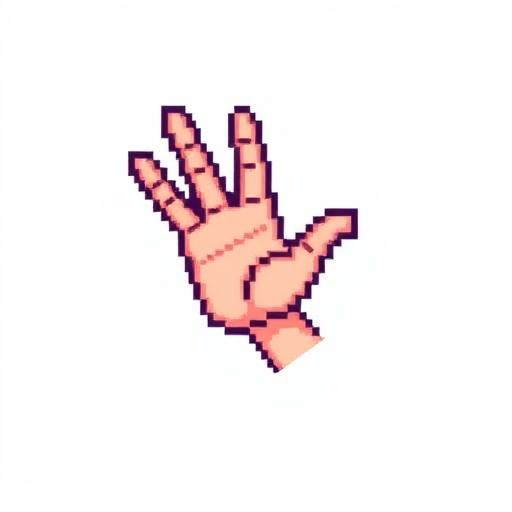
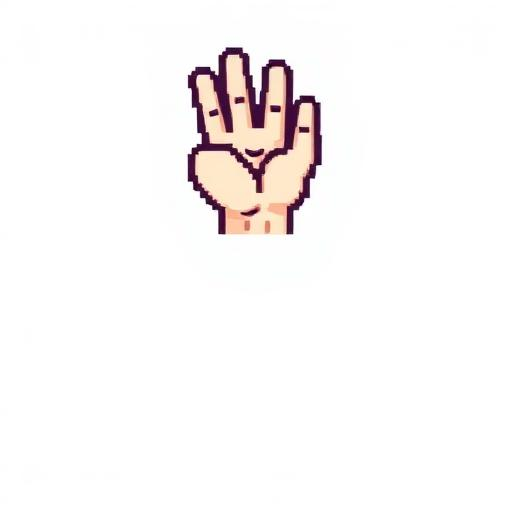
Changes

Changed region(s): [[0.25, 0.0938, 0.7188, 0.75]]

diff --git a/src/components/EventCard.tsx b/src/components/EventCard.tsx
@@ -115,11 +115,11 @@ export const EventCard = ({ event, index }: EventCardProps) => {
         >
           {/* Hand grabbing animation */}
           {isGrabbing && (
-            <div className="absolute inset-0 flex items-center justify-center z-20 pointer-events-none">
+            <div className="absolute inset-0 flex items-start justify-center z-20 pointer-events-none pt-4">
               <img 
                 src={pixelHand} 
                 alt="Grabbing hand" 
-                className="w-20 h-20 animate-hand-grab object-contain"
+                className="w-28 h-28 animate-hand-grab object-contain"
                 style={{ imageRendering: 'pixelated' }}
               />
             </div>
@@ -164,34 +164,34 @@ export const EventCard = ({ event, index }: EventCardProps) => {
       <style>{`
         @keyframes ticket-grab {
           0% {
-            transform: translateX(0) rotate(0deg);
+            transform: translateY(0);
             opacity: 1;
           }
-          50% {
-            transform: translateX(20px) rotate(-5deg);
+          40% {
+            transform: translateY(0);
             opacity: 1;
           }
           100% {
-            transform: translateX(150%) rotate(-15deg);
+            transform: translateY(100px);
             opacity: 0;
           }
         }
         
         @keyframes hand-grab {
           0% {
-            transform: translateX(-100px) rotate(0deg) scale(0.8);
+            transform: translateY(-80px) scale(0.8);
             opacity: 0;
           }
           30% {
-            transform: translateX(0) rotate(10deg) scale(1);
+            transform: translateY(0) scale(1);
             opacity: 1;
           }
           50% {
-            transform: translateX(0) rotate(-5deg) scale(1.1);
+            transform: translateY(10px) scale(1.05);
             opacity: 1;
           }
           100% {
-            transform: translateX(150px) rotate(-15deg) scale(1);
+            transform: translateY(200px) scale(1);
             opacity: 0;
           }
         }
